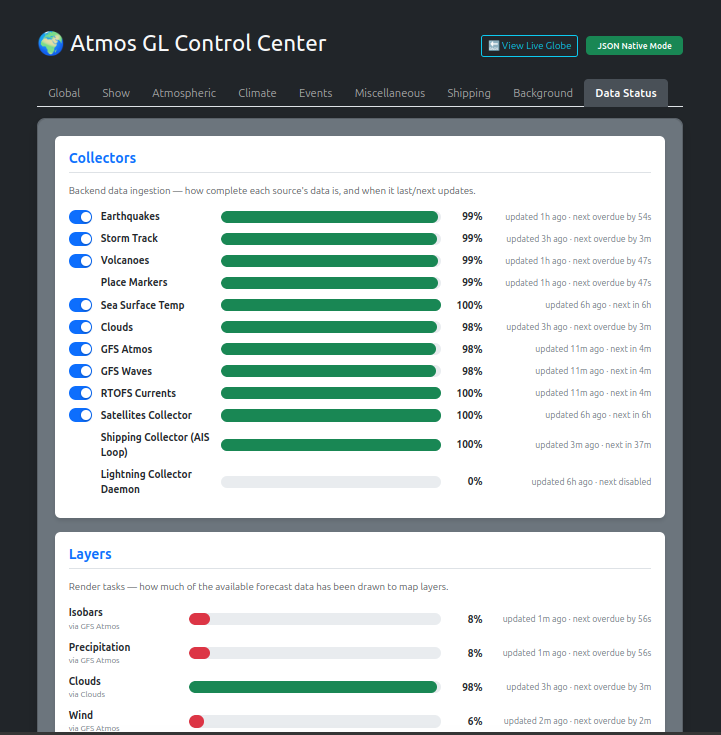
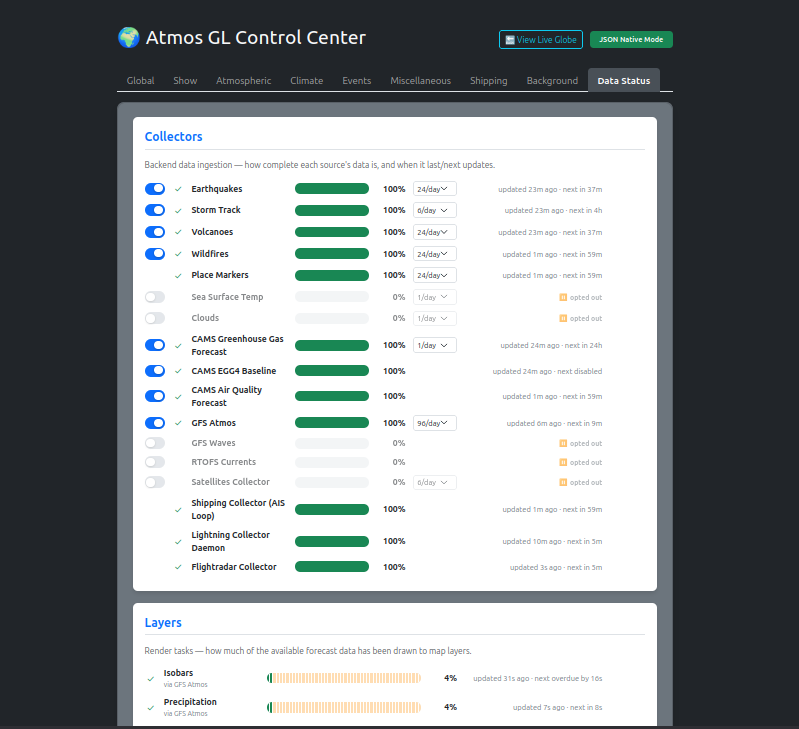
Break out Greenhouse Gases and Air Quality into per-variable lists in README
Also updates the config-status screenshot and removes a stray blank line
before the Waves section.

diff --git a/README.md b/README.md
@@ -501,7 +501,6 @@ Air/land temperatures are a measure of what's going on in our atmosphere, resolv
 globally at the same grid resolution as everything else here.
 ![Air Temperature](docs/atmos-gl-air-temperature.png)
 
-
 #### Waves
 This one is a colourisation depicting wave height across the planet. It gets quite
 interesting when you watch waves interacting with a storm, or a tsunami eventuates
@@ -628,8 +627,14 @@ The data collector is a separate background process which collects data for:
 * Volcanoes
 * Satellites
 * SST
-* Greenhouse Gases (CO2/CH4)
-* Air Quality (PM2.5/PM10/Smoke AOD/SO2)
+* Greenhouse Gases 
+  * CO2 - Carbon Dioxide
+  * CH4 - Methane
+* Air Quality
+  * PM2.5 - Fine Particulate Matter 2.5 microns
+  * PM10 - Coarse Particulate Matter 10 microns
+  * Smoke AOD - Aerosol Optical Depth of smoke from fire
+  * SO2 - Sulphur Dioxide from all sources
 * GFS Atmos:
   * Isobars
   * Precipitation
